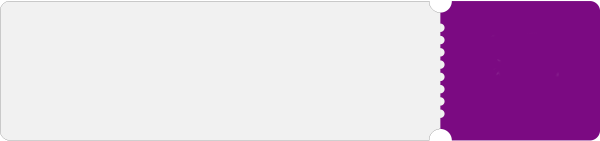
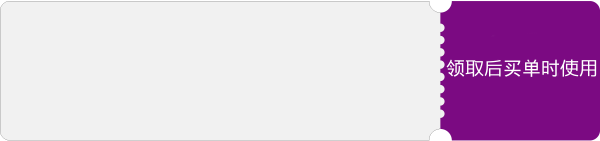
Changes

Changed region(s): [[0.72, 0.4255, 1.0, 0.539]]

diff --git a/index.html b/index.html
@@ -13,14 +13,11 @@
 
     <div id="main">
 
-      <div class="coupon">
-        <div class="right">
-          领取后买单时使用
-        </div>
-        <div class="left">
+      <a class="coupon" href="https://render.alipay.com/p/h5/discoverweb/www/couponDetail.html?areaCode=510020180228110000000004102000302485036&areaType=SHOP&isFromShopDetail=false&promoId=208800020180613110000000060088000500243648">
+        <div>
           <img src="c1.jpeg">
         </div>
-      </div>
+      </a>
 
       <p>
       用户使用支付宝手机客户端（限7.7 及以上版本）领取L'Etoile专属代金券，在L'Etoile的俄罗斯所有店使用支付宝付款，立享85折，最高立減15元人民币。代金券在领取后15天内有效, 同一用户在L'Etoile所有门店仅限使用一次。活动时间：从即日起至2018年6月30日。更多活动详情请领券后查看详细说明。
@@ -28,14 +25,11 @@
 
       <br/>
 
-      <div class="coupon">
-        <div class="right">
-          领取后买单时使用
-        </div>
-        <div class="left">
+      <a class="coupon" href="#">
+        <div>
           <img src="c2.jpeg">
         </div>
-      </div>
+      </a>
 
       <p>
       用户在支付宝手机客户端领取L'Etoile“买二增一”券，买单时点击使用按钮兑换特惠赠品。限指定商品使用，数量有限，先到先得。活动时间：即日起至6月30日。”
@@ -64,6 +58,7 @@
     <style>
       html, body {
         margin: 0;
+        color: #393838;
         padding: 0;
       }
       #head_img {
@@ -77,12 +72,14 @@
       }
 
       #main {
-        padding: 5px;
+        padding: 8px;
       }
 
       .coupon {
+        display: block;
         background-image: url('coupon.png');
         background-size: 100% 100%;
+        padding: 2px;
       }
 
       .left {
@@ -97,8 +94,14 @@
         width: 20%;
       }
 
+      .coupon div {
+        width: 72%;
+        text-align: center;
+        padding-top: 4px;
+      }
+
       .coupon img{
-        width: 70%;
+        width: 80%;
       }
 
       .bottom img {
